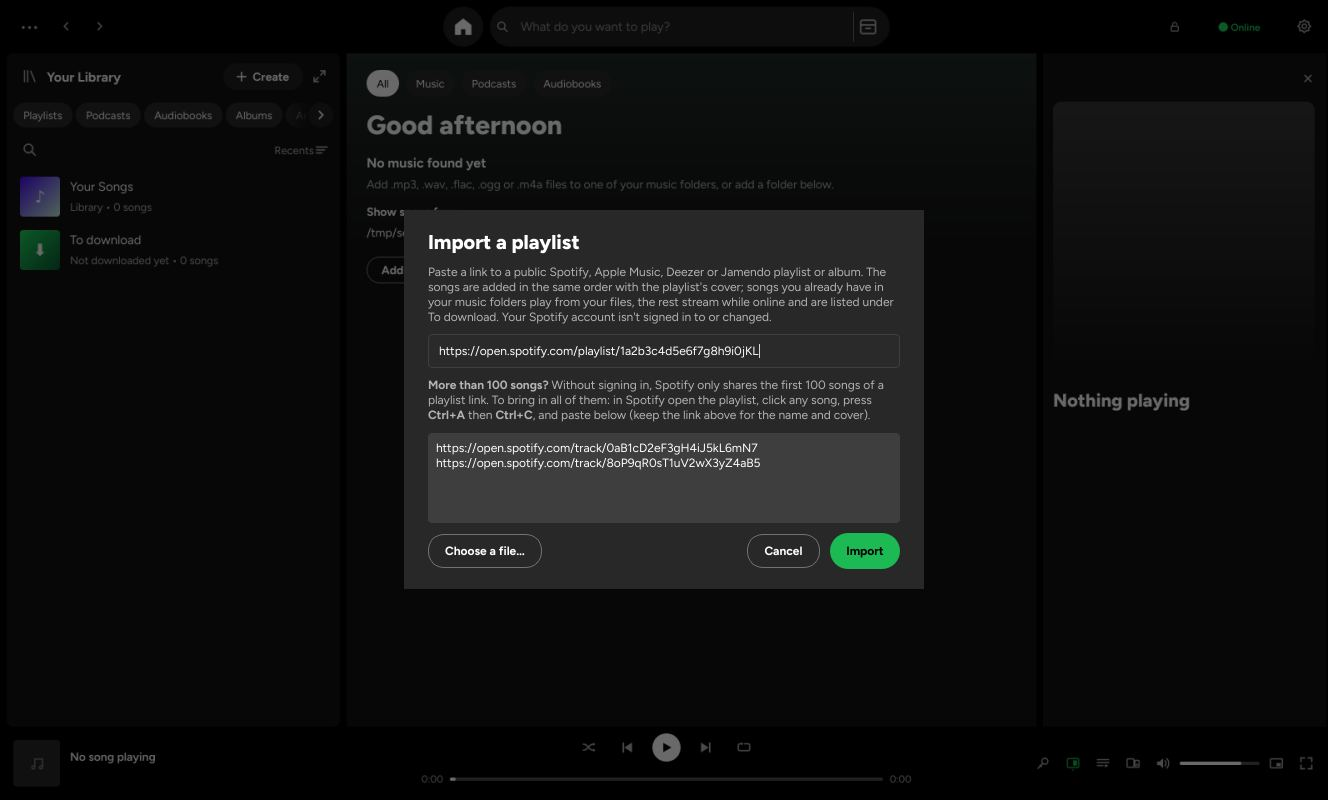
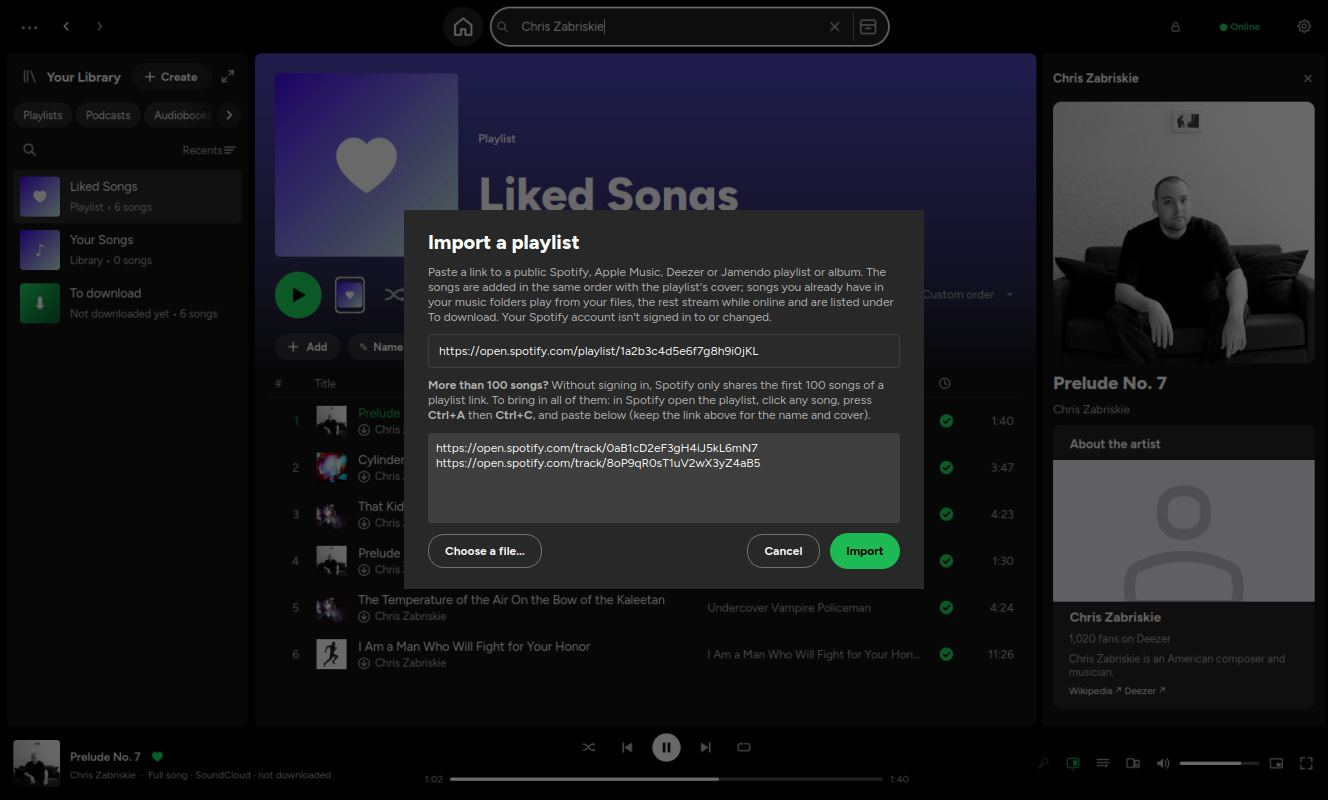
Screenshots for the tour and video: only openly licensed music, no photos of real people (artist photos left blank, audiobook instead of a podcast), CC album import on Android; desktop tour pictures [skip ci]
Claude-Session: https://claude.ai/code/session_01NbYqAPf1hYcPnmSnCoJfJG

diff --git a/tools/showcase.py b/tools/showcase.py
@@ -77,6 +77,18 @@ music = os.path.join(DATA, "music")
 os.makedirs(music, exist_ok=True)
 w = MainWindow(audio_folder=music, data_dir=DATA, vlc_args=("--aout=adummy", "--no-video", "--quiet"))
 w.move(0, 0)
+# No photos of real people in the pictures (artist photos, Wikipedia portraits): those come back blank, so the app
+# shows its placeholder. Album covers stay.
+_real_get_image = w.net.get_image
+
+
+def _no_people(url, *a, **k):
+    if "/images/artist/" in str(url) or "wikimedia.org" in str(url) or "/avatars" in str(url):
+        raise OSError("no artist photos in showcase pictures")
+    return _real_get_image(url, *a, **k)
+
+
+w.net.get_image = _no_people
 w.user_data.auto_update_check = False
 w.user_data.download_notice_accepted = True
 w.offer_update = lambda r: None
@@ -105,7 +117,7 @@ def home():
 
 def search():
     w.show_search()
-    w.search_input.setText("Chris Zabriskie")
+    w.search_input.setText("Kevin MacLeod")
     wait(lambda: w.web_table.isVisible() and len(w.web_table.songs_in_view()) >= 5, 60)
     pump(12)
     state["songs"] = w.web_table.songs_in_view()
@@ -114,10 +126,10 @@ def search():
 
 def play():
     songs = state.get("songs") or []
-    hits = [s for s in songs if "candlepower" in s.title.lower()] or songs
+    hits = [s for s in songs if "monkeys spinning" in s.title.lower()] or songs
     song = hits[0]
     w.set_right_panel("nowplaying")
-    w.play_song(song, queue=songs[:20], source="Chris Zabriskie")
+    w.play_song(song, queue=songs[:20], source="Kevin MacLeod")
     wait(lambda: w._reached_playing, 120)
     pump(10)
     for s in songs[1:6]:
@@ -128,13 +140,13 @@ def play():
 
 
 def artist():
-    w.show_web_artist("Chris Zabriskie")
+    w.show_web_artist("Kevin MacLeod")
     pump(20)
     shot("artist")
 
 
 def album():
-    a = w.online.deezer.find_artist("Chris Zabriskie")
+    a = w.online.deezer.find_artist("Kevin MacLeod")
     albums = w.online.deezer.artist_albums(a.get("id")).get("albums") or []
     pick = albums[0]
     w.open_web_album(pick)
@@ -191,7 +203,7 @@ def radio():
 
 def preview_feed():
     songs = state.get("songs") or []
-    w.open_preview_feed(songs[:10], "Chris Zabriskie")
+    w.open_preview_feed(songs[:10], "Kevin MacLeod")
     pump(10)
     shot("preview-feed")
     feed = getattr(w, "_preview_feed", None)
@@ -201,11 +213,11 @@ def preview_feed():
 
 
 def podcast():
-    from core import podcasts
-    found = podcasts.search(w.net, "Huberman Lab", 5, "us")
-    w.open_show(found[0], follow=True)
-    wait(lambda: w._show_ctx and w._show_ctx["items"], 60)
-    pump(10)
+    # A public-domain audiobook (LibriVox via the Internet Archive): no real people's photos, nothing commercial.
+    from core import audiobooks
+    found = audiobooks.search(w.net, "Sherlock Holmes", 10)
+    w.open_book(found[0])
+    pump(20)
     shot("podcast")
 
 
@@ -290,7 +302,7 @@ def pair_dialog():
 def support_dialog():
     w._auto_answer_dialogs = []
     try:
-        d = w.support_artist("Chris Zabriskie", (state.get("songs") or [None])[0])
+        d = w.support_artist("Kevin MacLeod", (state.get("songs") or [None])[0])
         wait(lambda: d.links or not d.status.text().startswith("Looking"), 40)
         pump(2)
         shot("support", d)

diff --git a/tools/android_screens.py b/tools/android_screens.py
@@ -189,7 +189,7 @@ def main():
         shot("search_browse")
         tap("What do you want to listen to?")
         time.sleep(2)
-        sh("input text daft%spunk")
+        sh("input text monkeys%sspinning%smonkeys")   # openly licensed music only (Kevin MacLeod), song covers not people
         time.sleep(10)
         hide_keyboard()
         shot("search_results", 3)
@@ -278,9 +278,28 @@ def main():
             back()
     step("create", create_playlist)
 
+    def cc_album_link():
+        """A Deezer album of openly licensed music (Chris Zabriskie), looked up now (only CC music in screenshots)."""
+        import json as _json
+        import urllib.parse as _up
+        import urllib.request as _ur
+        try:
+            q = _up.quote("Chris Zabriskie")
+            with _ur.urlopen(f"https://api.deezer.com/search/album?q={q}&limit=10", timeout=20) as r:
+                data = _json.loads(r.read())
+            for a in data.get("data") or []:
+                if (a.get("artist") or {}).get("name", "").lower() == "chris zabriskie" and a.get("nb_tracks", 0) >= 5:
+                    return a["link"]
+        except Exception as e:
+            note(f"!! Deezer album lookup failed: {e}")
+        return ""
+
     def import_link():
+        link = cc_album_link()
+        if not link:
+            return
         sh(f"am start -a android.intent.action.SEND -t text/plain --es android.intent.extra.TEXT "
-           f"https://open.spotify.com/playlist/37i9dQZF1DXcBWIGoYBM5M {PKG}")
+           f"{link} {PKG}")
         shot("import_from_share", 6)
         tap("Import", tries=2)
         shot("import_result", 20)

diff --git a/tools/tour_images.py b/tools/tour_images.py
@@ -19,7 +19,7 @@ DESKTOP = {"search.jpg": ("search", False), "save.jpg": ("save-picker", False), 
            "support.jpg": ("support", True), "mini.jpg": ("mini-player", True),
            "private.jpg": ("private-session", False), "settings.jpg": ("settings", False)}
 ANDROID = {"search.jpg": "search_results", "save.jpg": "your_songs_menu", "import.jpg": "import_result",
-           "radio.jpg": "radio_page", "podcast.jpg": "podcast_show", "pair.jpg": "settings_computer",
+           "radio.jpg": "radio_page", "podcast.jpg": "audiobook_page", "pair.jpg": "settings_computer",
            "support.jpg": "support_sheet", "lyrics.jpg": "lyrics_card", "downloads.jpg": "download_choice",
            "settings.jpg": "settings_privacy"}
 IPHONE = {"search.jpg": "search", "library.jpg": "library", "now_playing.jpg": "now_playing",
@@ -47,7 +47,7 @@ def main(kind, folder):
         out, size, table = os.path.join(HERE, "ios", "Sevbify", "Tour"), (540, 1100), \
             {k: (v, False) for k, v in IPHONE.items()}
     os.makedirs(out, exist_ok=True)
-    backdrop = find(folder, "home") if kind == "desktop" else None
+    backdrop = find(folder, "liked-songs") if kind == "desktop" else None      # CC songs only (Home shows live charts)
     made = 0
     for pic, (name, dialog) in table.items():
         src = find(folder, name)
